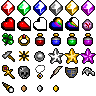
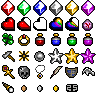
added podiums and skill book

Changed region(s): [[0.6875, 0.875, 0.8125, 0.9688]]

diff --git a/src/item.c b/src/item.c
@@ -23,6 +23,7 @@ ItemProps item_props[ITEM_MAX] = {0};
 int items_image = -1;
 int chest_image = -1;
 int shrine_image = -1;
+int podium_image = -1;
 
 static int chestables_index[ITEM_MAX] = {0};
 static int num_chestables = 0;
@@ -94,6 +95,18 @@ static bool item_func_skull(Item* pu, Player* p)
     pu->used = true;
     return pu->used;
 }
+
+static bool item_func_podium(Item* pu, Player* p)
+{
+    if(pu->used) return false;
+    pu->used = true;
+
+    float x = pu->phys.pos.x;
+    float y = pu->phys.pos.y;
+    int croom = pu->curr_room;
+    item_add(ITEM_SKILL_BOOK, x, y, croom);
+}
+
 
 static bool item_func_shrine(Item* pu, Player* p)
 {
@@ -277,6 +290,10 @@ static bool internal_item_use(Item* pu, void* player)
             p->coins += 10;
         } break;
 
+        case ITEM_SKILL_BOOK:
+        {
+        } break;
+
         case ITEM_GAUNTLET_SLOT:
         {
             // if(p->gauntlet_slots < PLAYER_GAUNTLET_MAX)
@@ -310,6 +327,11 @@ static bool internal_item_use(Item* pu, void* player)
         case ITEM_SHRINE:
         {
             item_func_shrine(pu, p);
+        } break;
+
+        case ITEM_PODIUM:
+        {
+            item_func_podium(pu, p);
         } break;
 
         default:
@@ -351,6 +373,7 @@ void item_init()
     items_image = gfx_load_image("src/img/items.png", false, false, 16, 16);
     chest_image = gfx_load_image("src/img/chest.png", false, false, 32, 32);
     shrine_image = gfx_load_image("src/img/shrine.png", false, false, 32, 48);
+    podium_image = gfx_load_image("src/img/podium.png", false, false, 32, 48);
 
     for(int i = 0; i < ITEM_MAX; ++i)
     {
@@ -366,6 +389,11 @@ void item_init()
         else if(p->type == ITEM_SHRINE)
         {
             p->image = shrine_image;
+            p->sprite_index = 0;
+        }
+        else if(p->type == ITEM_PODIUM)
+        {
+            p->image = podium_image;
             p->sprite_index = 0;
         }
         else
@@ -534,8 +562,9 @@ const char* item_get_name(ItemType type)
         case ITEM_REVIVE:     return "Revive";
         case ITEM_SHRINE:     return "Shrine";
         case ITEM_CHEST:      return "Chest";
-        case ITEM_NEW_LEVEL:  return "New Level";
+        case ITEM_PODIUM:      return "Podium";
 
+        case ITEM_NEW_LEVEL:  return "New Level";
         case ITEM_SKULL:      return "Skull";
         case ITEM_GEM_RED:    return "Red Gem";
         case ITEM_GEM_GREEN:  return "Green Gem";
@@ -568,6 +597,7 @@ const char* item_get_name(ItemType type)
         case ITEM_COIN_COPPER: return "Copper Coin";
         case ITEM_COIN_SILVER: return "Silver Coin";
         case ITEM_COIN_GOLD: return "Gold Coin";
+        case ITEM_SKILL_BOOK: return "Skill Book";
     }
     return "???";
 }
@@ -580,8 +610,9 @@ const char* item_get_description(ItemType type)
         case ITEM_REVIVE:     return "cheat deat";
         case ITEM_SHRINE:     return "hmmmm";
         case ITEM_CHEST:      return "contains loot";
-        case ITEM_NEW_LEVEL:  return "enter new level";
+        case ITEM_PODIUM:     return "this looks interesting";
 
+        case ITEM_NEW_LEVEL:  return "enter new level";
         case ITEM_SKULL:      return "Chris Rose";
         case ITEM_GEM_RED:    return "";
         case ITEM_GEM_GREEN:  return "";
@@ -614,6 +645,7 @@ const char* item_get_description(ItemType type)
         case ITEM_COIN_COPPER: return "+1 coin";
         case ITEM_COIN_SILVER: return "+5 coins";
         case ITEM_COIN_GOLD: return "+10 coins";
+        case ITEM_SKILL_BOOK: return "todo";
     }
     return "???";
 }
@@ -637,6 +669,13 @@ Item* item_add(ItemType type, float x, float y, uint8_t curr_room)
         pu.phys.elasticity = 0.2;
     }
     else if(type == ITEM_SHRINE)
+    {
+        pu.phys.mass = 1000.0;
+        pu.phys.base_friction = 30.0;
+        pu.phys.radius = 12*iscale; //TEMP
+        pu.phys.elasticity = 0.2;
+    }
+    else if(type == ITEM_PODIUM)
     {
         pu.phys.mass = 1000.0;
         pu.phys.base_friction = 30.0;
@@ -700,7 +739,7 @@ void item_update_all(float dt)
         // remove previously used items
         if(pu->used)
         {
-            if(!(pu->type == ITEM_CHEST || pu->type == ITEM_SHRINE))
+            if(!(pu->type == ITEM_CHEST || pu->type == ITEM_SHRINE || pu->type == ITEM_PODIUM))
             {
                 item_remove(pu);
                 continue;

diff --git a/src/item.h b/src/item.h
@@ -44,9 +44,11 @@ typedef enum
     ITEM_COIN_COPPER,
     ITEM_COIN_SILVER,
     ITEM_COIN_GOLD,
+    ITEM_SKILL_BOOK,
 
     ITEM_CHEST,
     ITEM_SHRINE,
+    ITEM_PODIUM,
 
     ITEM_MAX
 } ItemType;
